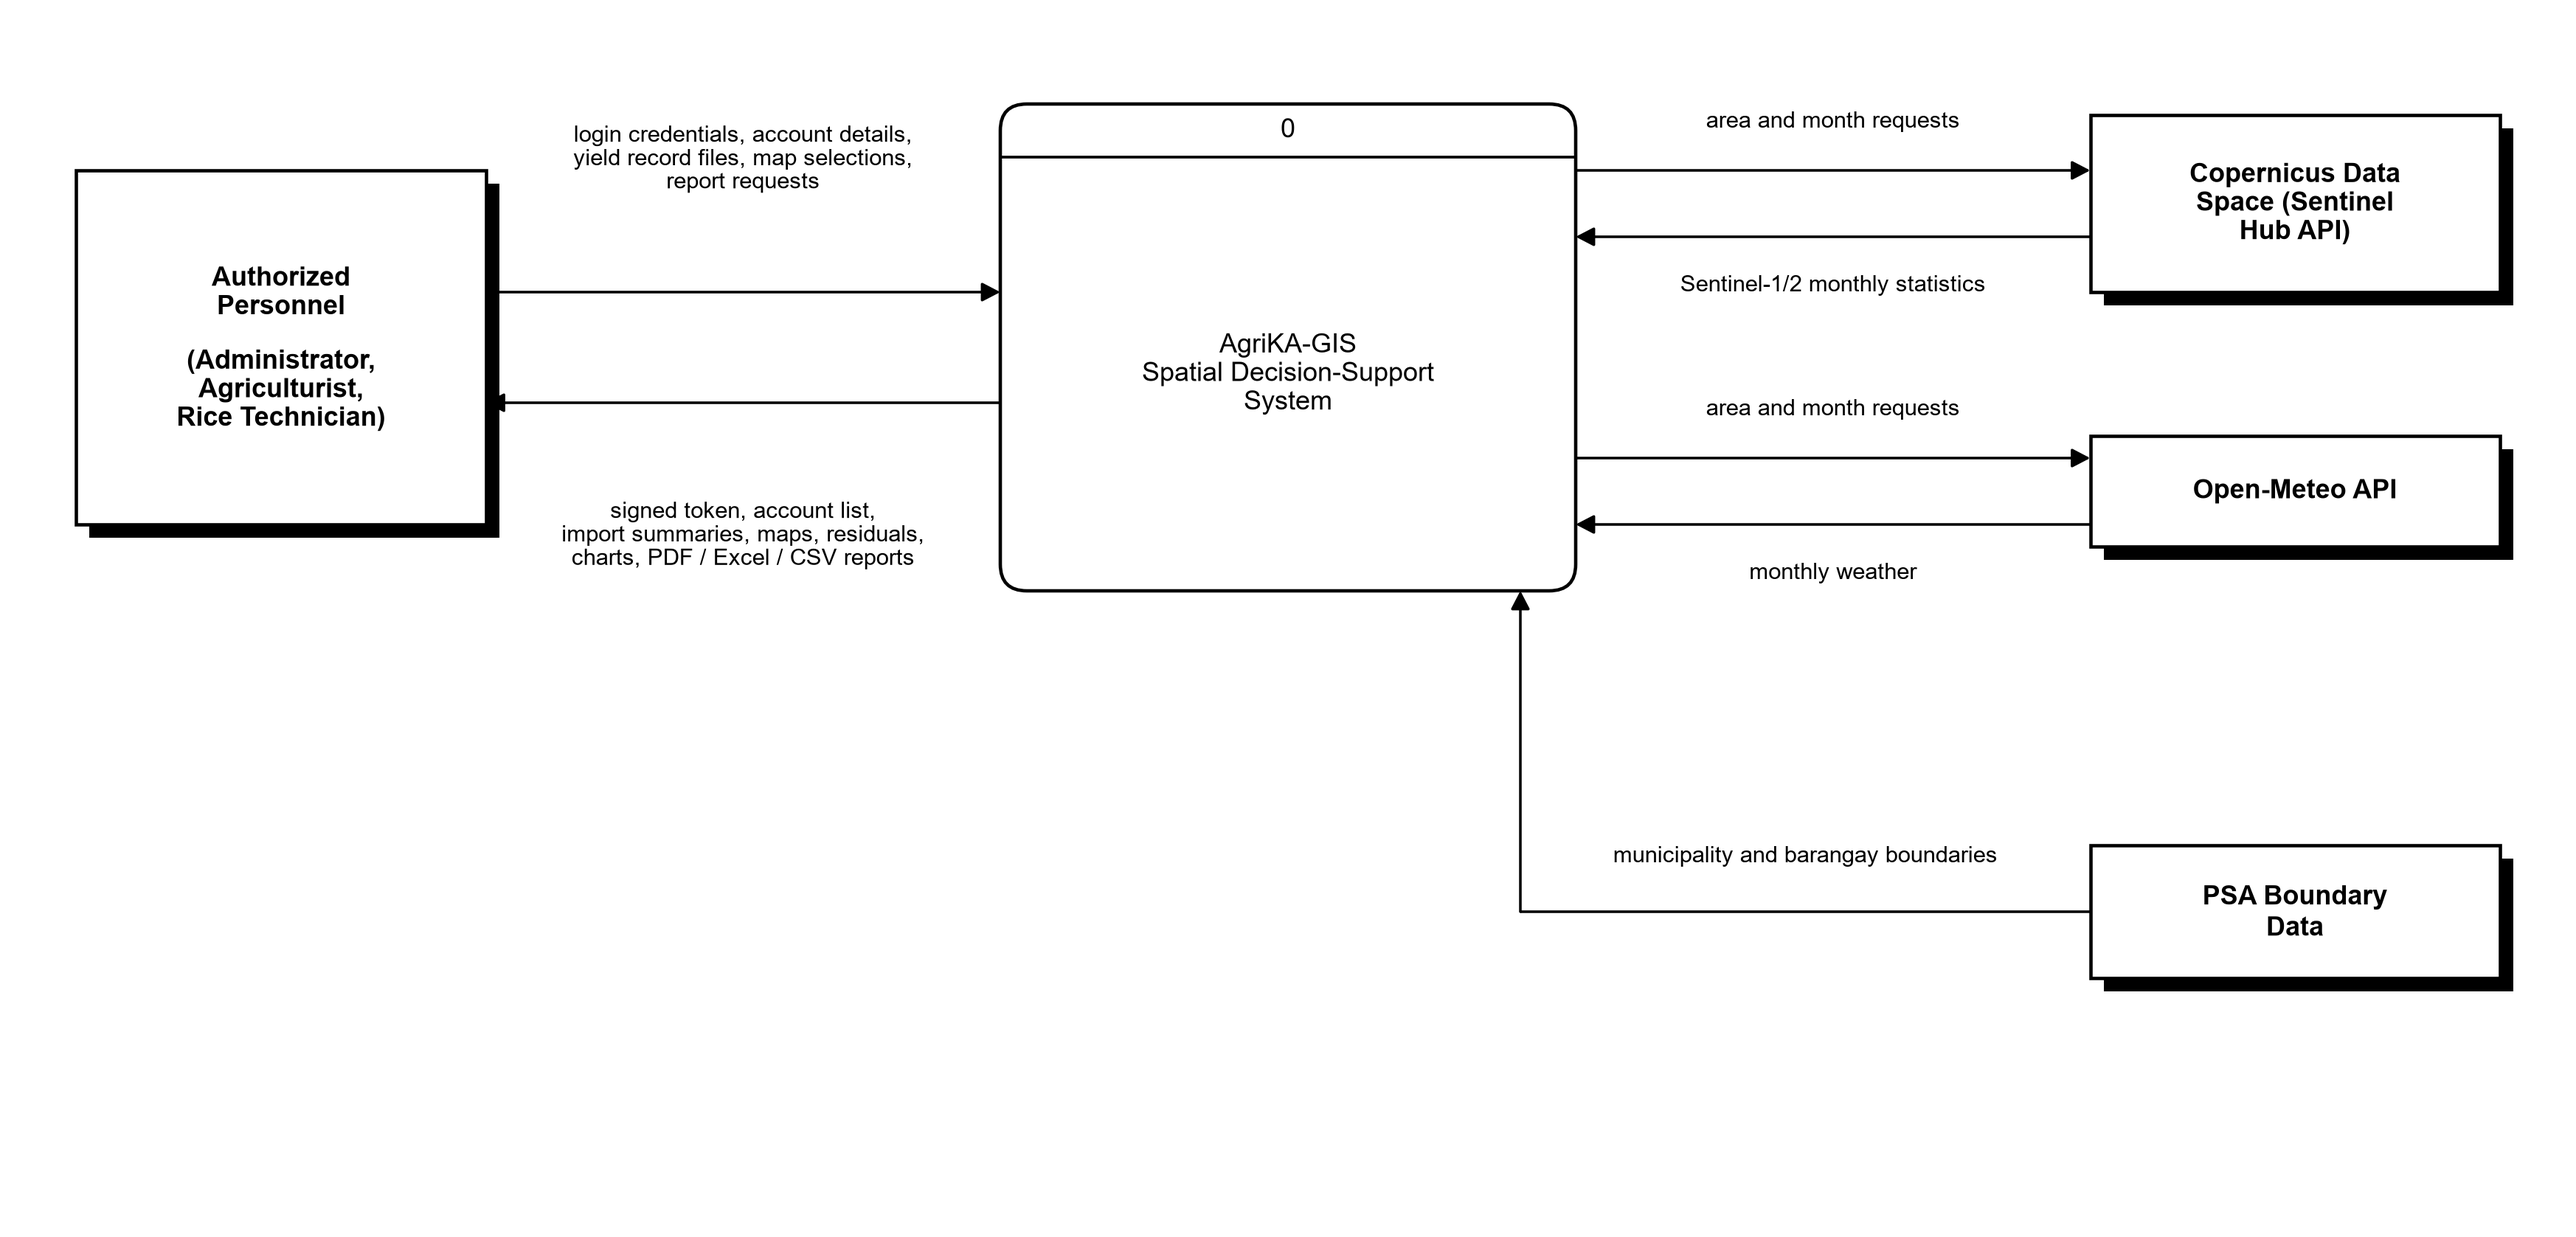
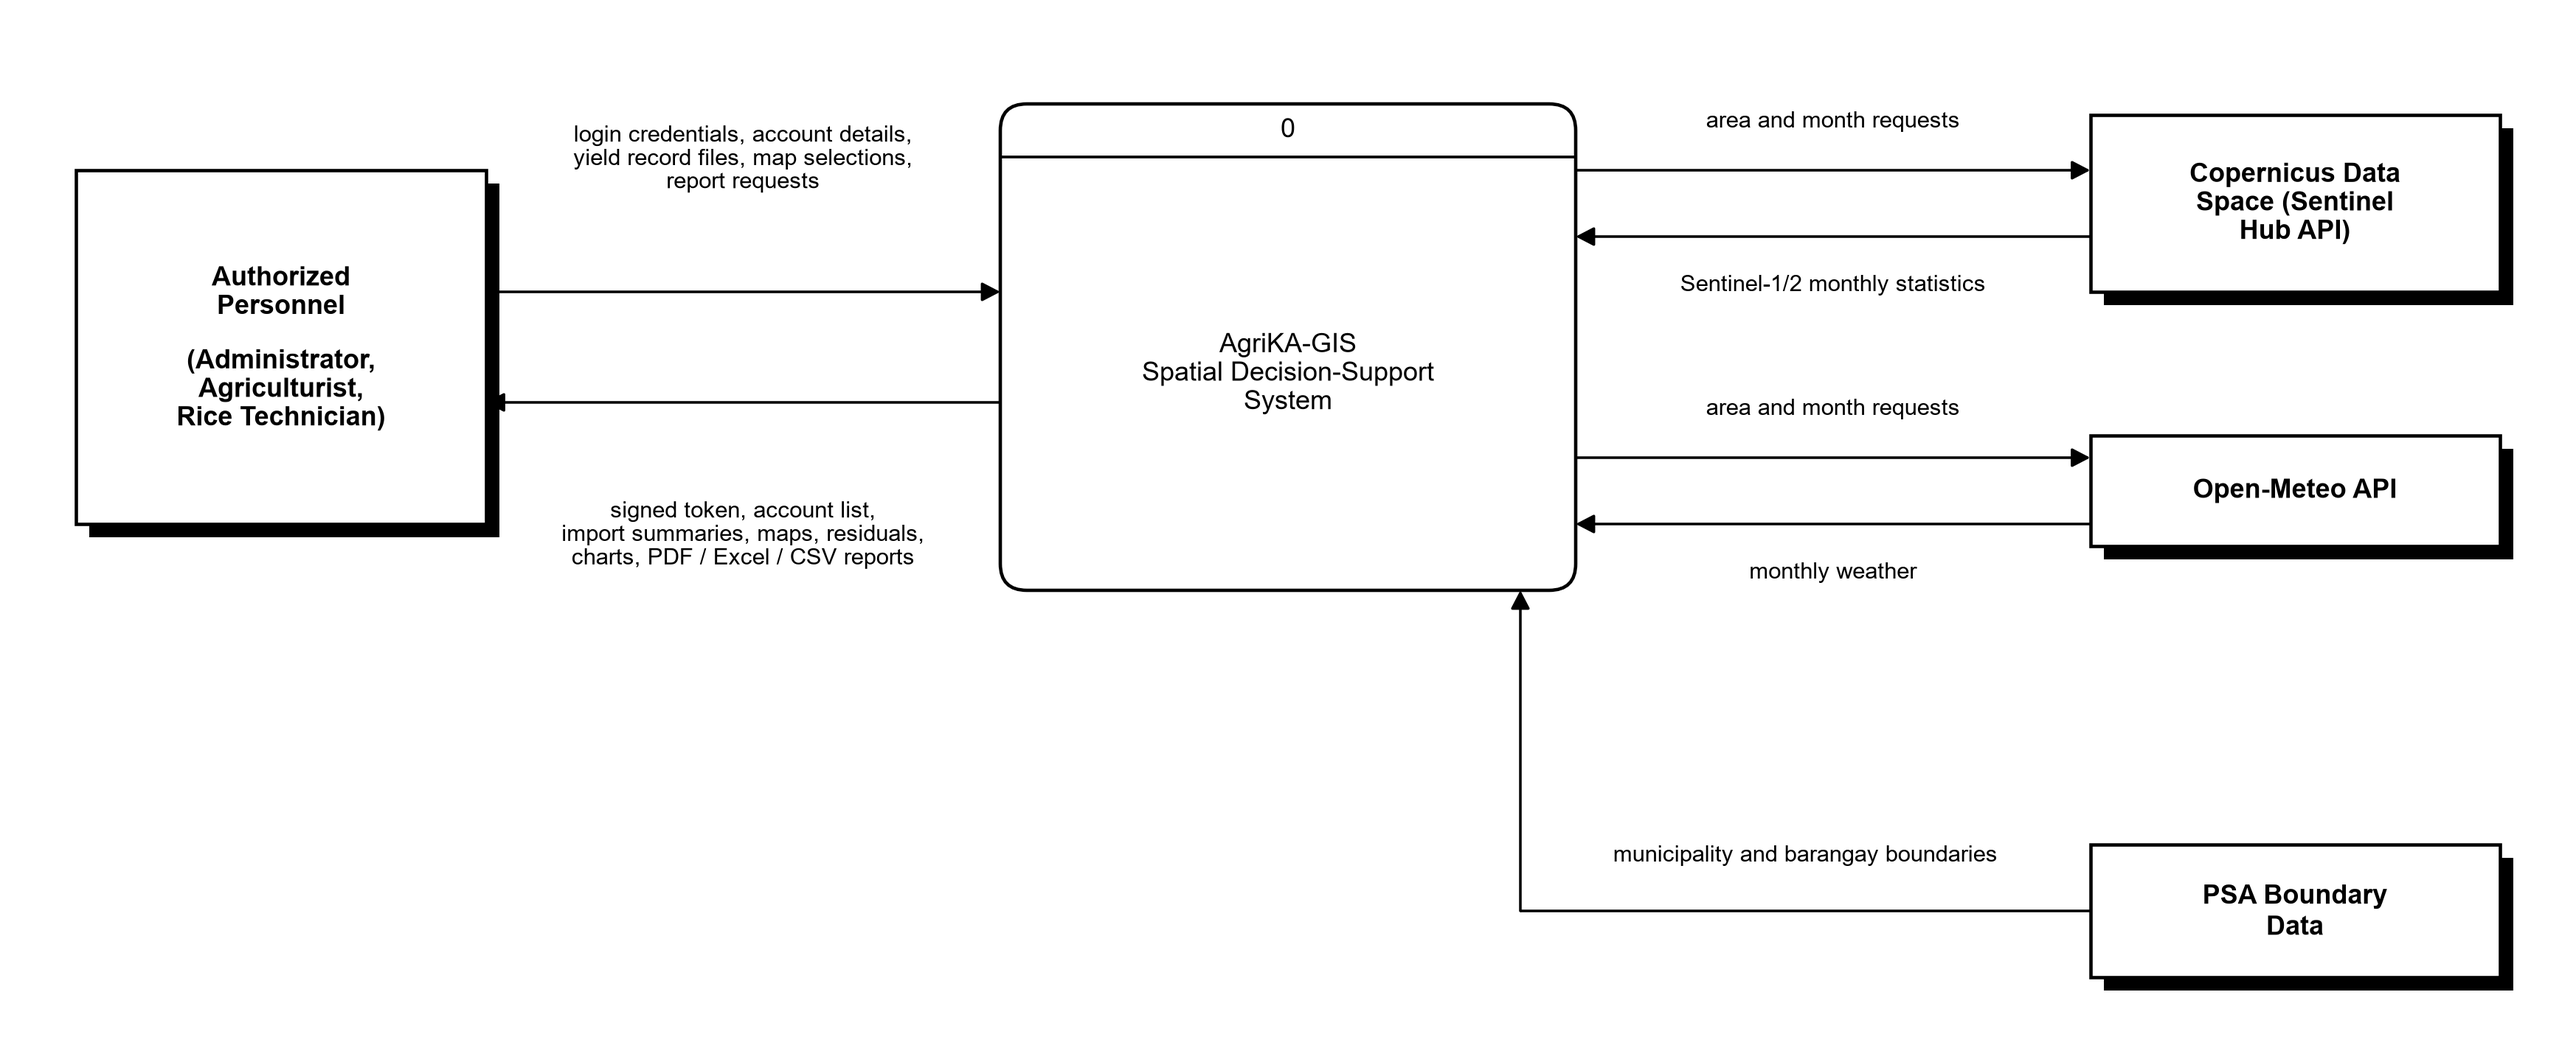
figures: data flow diagrams trimmed; appendix copies of the architecture, data flow, and use case diagrams redrawn

diff --git a/docs/figures/make_dfd.py b/docs/figures/make_dfd.py
@@ -145,6 +145,13 @@ def path(d, pts, label=None, lpos=None, ha="center", double=False, lw=0.85):
                 bbox=dict(fc="white", ec="none", pad=0.8))
 
 
+def trim(d, y0):
+    """Drop the empty strip below y0 (the Public Visitor used to sit there), same scale."""
+    w, h = d.fig.get_size_inches()
+    d.ax.set_ylim(y0, h)
+    d.fig.set_size_inches(w, h - y0)
+
+
 # ============================================================== context diagram
 def context():
     global LBL, NAME
@@ -167,6 +174,7 @@ def context():
     path(d, [(R, cy - 0.5), (er, cy - 0.5)], "area and month requests", ((R + er) / 2, cy - 0.28))
     path(d, [(er, cy - 0.8), (R, cy - 0.8)], "monthly weather", ((R + er) / 2, cy - 1.02))
     path(d, [(er, 1.35), (R - 0.25, 1.35), (R - 0.25, B)], "municipality and barangay boundaries", ((er + R - 0.25) / 2, 1.6))
+    trim(d, 0.85)
     d.save("fig_dfd_context.png")
 
 
@@ -244,6 +252,7 @@ def level1(lbl=7.4, name=8.6, out="fig_dfd_level1.png"):
     # --- 6.0 Load boundaries
     path(d, [(e5l, YB), (p6r, YB)], "boundary\nfiles", ((e5l + p6r) / 2, YB + 0.38))
     path(d, [(p6l, YB - 0.15), (10.75 + SW / 2, YB - 0.15)], "municipality and\nbarangay boundaries", ((p6l + 10.75 + SW / 2) / 2 + 0.1, YB - 0.62))
+    trim(d, 1.55)
     d.save(out)
 
 
